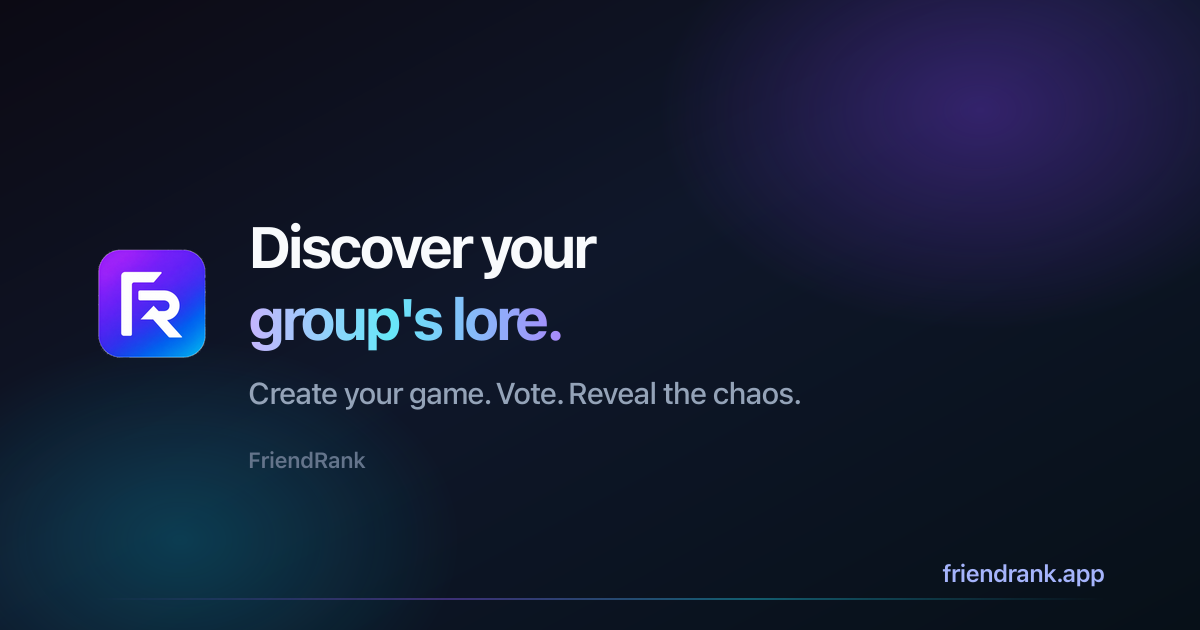
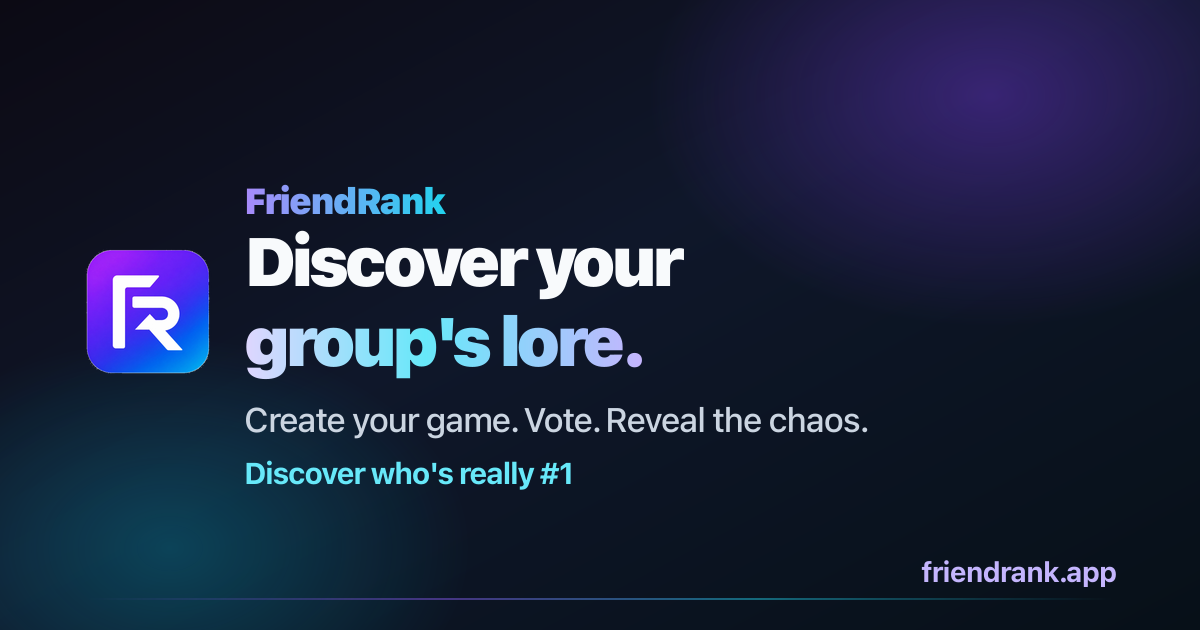
Polish Open Graph social preview

Changed region(s): [[0.0617, 0.3016, 0.74, 0.6937], [0.185, 0.7238, 0.4933, 0.7841], [0.7708, 0.8746, 0.925, 0.9349]]

diff --git a/app/layout.tsx b/app/layout.tsx
@@ -15,14 +15,16 @@ const geistMono = Geist_Mono({
   subsets: ["latin"],
 });
 
+const SITE_DESCRIPTION =
+  "Create a social ranking game for your group. Vote with friends, reveal the chaos, and share cinematic results everyone will want to screenshot.";
+
 export const metadata: Metadata = {
   metadataBase: new URL(PRODUCTION_APP_URL),
   title: {
     default: "FriendRank — Discover your group's lore",
     template: "%s | FriendRank",
   },
-  description:
-    "Create a social ranking game for your group. Vote, reveal the chaos, and share cinematic results.",
+  description: SITE_DESCRIPTION,
   alternates: {
     canonical: PRODUCTION_APP_URL,
   },
@@ -39,8 +41,7 @@ export const metadata: Metadata = {
   },
   openGraph: {
     title: "FriendRank — Discover your group's lore",
-    description:
-      "Create a social ranking game for your group. Vote, reveal the chaos, and share cinematic results.",
+    description: SITE_DESCRIPTION,
     url: PRODUCTION_APP_URL,
     siteName: "FriendRank",
     type: "website",
@@ -56,8 +57,7 @@ export const metadata: Metadata = {
   twitter: {
     card: "summary_large_image",
     title: "FriendRank — Discover your group's lore",
-    description:
-      "Create a social ranking game for your group. Vote, reveal the chaos, and share cinematic results.",
+    description: SITE_DESCRIPTION,
     images: ["/og/friendrank-og.png"],
   },
 };